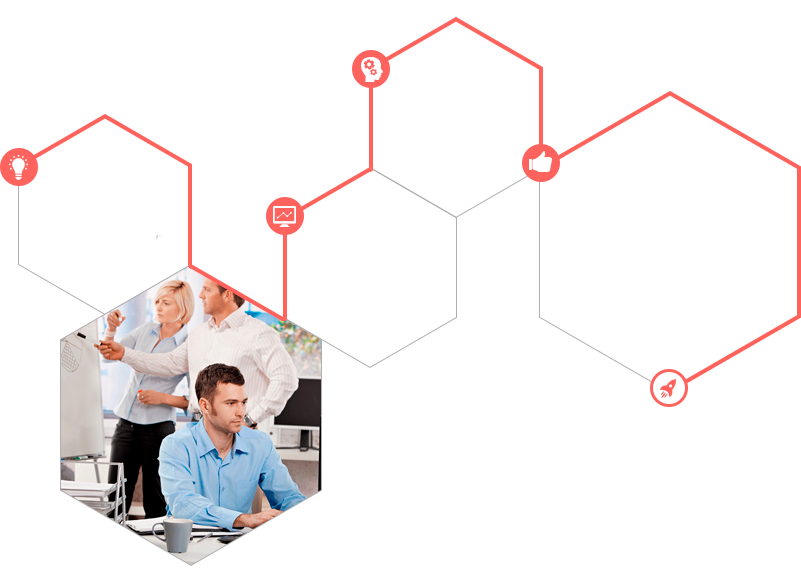
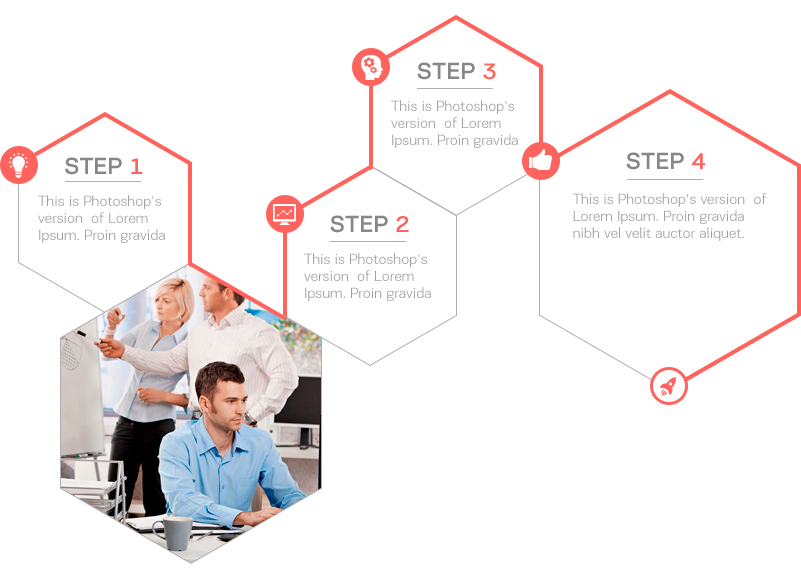
add svg

diff --git a/index.html b/index.html
@@ -27,6 +27,7 @@
 	<!-- style -->
 	<link rel="stylesheet" href="css/normalize.css">	
 	<link rel="stylesheet" href="css/main.css">
+	<link rel="stylesheet" href="css/icons.css">
 	<link rel="stylesheet" href="css/media.css">
 </head>
 <body>
@@ -64,7 +65,36 @@
 			<p class="section-describe">Daisy is sagittis sem nibh id elit. Duis sed odio sit amet nibh vulputate cursus a sit amet mauris. Morbi accumsan ipsum</p>
 			<div class="icons">
 				<div class="icons-cont">
-					<img src="img/icons/icon1.png" alt="icon1">
+					<!-- <img src="img/icons/icon1.png" alt="icon1"> -->
+					<!-- <svg id="icon1" data-name="icon1" xmlns="http://www.w3.org/2000/svg" width="100.188" height="116" viewBox="0 0 100.188 116">
+						<defs>
+						  <style>
+							.cls-1 {
+							  fill: #fe8682;
+							}
+					  
+							.cls-1, .cls-2, .cls-3 {
+							  fill-rule: evenodd;
+							}
+					  
+							.cls-2 {
+							  fill: #fc635e;
+							}
+					  
+							.cls-3 {
+							  fill: #fff;
+							}
+						  </style>
+						</defs>
+						<g id="Группа_3" data-name="Группа 3">
+						  <path id="Фигура_3" data-name="Фигура 3" class="cls-1" d="M212.149,1040l50.1-29,50.1,29v58l-50.1,29-50.1-29v-58Z" transform="translate(-212.156 -1011)"/>
+						  <path id="Фигура_3_копия" data-name="Фигура 3 копия" class="cls-2" d="M217.16,1043l45.093-26,45.093,26v52l-45.093,26-45.093-26v-52Z" transform="translate(-212.156 -1011)"/>
+						</g>
+						<path id="Forma_1" data-name="Forma 1" class="cls-3" d="M271.256,1069.77a30.025,30.025,0,0,0,4.973-7.96,29.363,29.363,0,0,0,1.037-2.97c0.11-.41.228-0.91,0.336-1.46,0.025-.12.042-0.23,0.065-0.35,0.026-.15.053-0.3,0.077-0.46a20.322,20.322,0,0,0,.257-4.22,13.466,13.466,0,0,1-.063-1.73,0.793,0.793,0,0,0,.085-0.1,0.609,0.609,0,0,0,.216-0.62s-0.026-.02-0.058-0.05a1.2,1.2,0,0,1,.053-0.52c0.062-.27-0.126-0.41-0.421-0.32a1.565,1.565,0,0,1-.6.11l-0.07-.05a0.65,0.65,0,0,0-.564.36,0.931,0.931,0,0,1-.059.08c-0.032.05-.805,0.13-1.712,0.31a20.578,20.578,0,0,0-6.779,2.72,27.043,27.043,0,0,0-8.48,8.44,3.067,3.067,0,0,1-2.5,1.29,11.835,11.835,0,0,0-11.735,7.52,1.041,1.041,0,0,0,1.121,1.49c16.319-.3,17.806,9.65,17.747,13.65-0.015.91,0.565,1.36,1.357,0.89,5.931-3.52,5.539-10.16,4.99-13.21A3.827,3.827,0,0,1,271.256,1069.77Zm-1.838-4.49a3.324,3.324,0,0,1-4.082.6,3.142,3.142,0,0,1-1.23-4.34,2.765,2.765,0,0,1,.378-0.51,3.337,3.337,0,0,1,4.083-.6,3.154,3.154,0,0,1,1.23,4.35A3.385,3.385,0,0,1,269.418,1065.28Zm-14.354,21.94c2.927-1.73,4.621-4.92,5.417-6.83,0.351-.84-0.13-1.25-0.91-0.77a14.6,14.6,0,0,0-5.467,6.75C253.753,1087.21,254.272,1087.69,255.064,1087.22Zm-5.826.63c4.469-2.42,6.873-7.52,7.845-10.09,0.322-.85-0.164-1.26-0.957-0.8-4.693,2.77-6.985,7.55-7.9,10.01C247.908,1087.82,248.43,1088.29,249.238,1087.85Zm-1.049-5.93c2.927-1.73,4.62-4.91,5.416-6.82,0.352-.84-0.13-1.25-0.91-0.77a14.615,14.615,0,0,0-5.467,6.75C246.877,1081.92,247.4,1082.39,248.189,1081.92Z" transform="translate(-212.156 -1011)"/>
+					</svg> -->
+					<svg class="icon">
+						<use xlink:href="#icon1"></use>
+					  </svg>
 					<h3>Clients</h3>
 					<p>Lorem ipsum dolor sit amet, consectetur adipisicing elit. Blanditiis excepturi obcaecati magnam deleniti aliquid mollitia!</p>
 				</div>
@@ -97,7 +127,28 @@
 	<section class="process">
 		<div class="cont">
 			<h2 class="section-title">Our <span> process</span></h2>
-			<p class="section-describe">Daisy is sagittis sem nibh id elit. Duis sed odio sit amet nibh vulputate cursus a sit amet mauris. Morbi accumsan ipsum</p>			
+			<p class="section-describe">Daisy is sagittis sem nibh id elit. Duis sed odio sit amet nibh vulputate cursus a sit amet mauris. Morbi accumsan ipsum</p>
+			<img src="./img/our_process.png" alt="process">	
+			<div class="steps">
+				<div class="hex1"></div>
+				<div class="hex2"></div>
+				<div class="hex3"></div>
+				<div class="hex4"></div>
+			</div>
+			<a href="#" class="arrowDown">&darr;</a>	
+		</div>
+	</section>
+	<section class="we_do">
+		<div class="cont">
+			<h2 class="section-title">what do <span> we do</span></h2>
+			<div class="section-block">
+				<div class="section-text">
+					<h3>Landing Pages</h3>
+					<p>This is Photoshop's version  of Lorem Ipsum. Proin gravida nibh vel velit auctor aliquet. Aenean sollicitudin, lorem quis bibendum auctor, nisi elit consequat ipsum, nec sagittis sem nibh id elit. Duis sed odio sit amet nibh vulputate cursus a sit amet mauris. Morbi accumsan ipsum velit. Nam</p>
+					<button></button>
+				</div>
+				<img src="/img/we_do_01.png" alt="PC">
+			</div>
 		</div>
 	</section>
 </body>

diff --git a/css/main.less b/css/main.less
@@ -53,18 +53,48 @@ body {
         }
     }
 
+    // .section-title {
+    //     display: inline-block;
+    //     font-size: 40px;
+    //     text-transform: uppercase;
+    //     color: #868686;
+    //     // text-decoration: solid 2px #ADADAD underline;
+    //     // text-underline-position: below 10px;
+    //     padding-bottom: 14px;
+    //     border-bottom: solid 2px #ADADAD;
+    //     span {
+    //       color: #fc635e;
+    //     }
+    // }
+
     .section-title {
         display: inline-block;
+        position: relative;
+        margin: 0 auto;
         font-size: 40px;
-        text-transform: uppercase;
         color: #868686;
-        // text-decoration: solid 2px #ADADAD underline;
-        // text-underline-position: below 10px;
-        padding-bottom: 14px;
-        border-bottom: solid 2px #ADADAD;
-        span {
-          color: #fc635e;
-        }
+        text-transform: uppercase;
+    }
+
+    .section-title span {
+        color: #fc635e;
+    }
+
+    .section-title:after {
+        display: block;
+        background-color: #ADADAD;
+        content: " ";
+        height: 3px;
+        width: 0%;
+        left: 50%;
+        position:absolute;
+        transition: width .3s ease-in-out;
+        transform:translateX(-50%);
+    }
+
+    .section-title:hover:after,
+    .section-title:focus:after {
+        width: 100%;
     }
 
     .section-describe {
@@ -77,7 +107,12 @@ body {
         max-width: 540px;
         margin: 0 auto;
         margin-bottom: 80px;
-    }    
+    }   
+    
+    .section-block {
+        display: flex;
+        justify-content: space-between;
+    }
 
     /*--header--*/
     header {
@@ -319,9 +354,42 @@ body {
             }
           
     }
+    /*--section our process--*/ 
     .process {
         text-align: center;
-
+        .steps {
+            display: none;
+        }
+        img {
+            width: 100%;
+            height: auto;   
+        }
     }
 
-}
+    /*--section we do--*/ 
+    .we_do {
+        text-align: center;
+        background-color: #f2f2f2;
+        .section-block {
+            .section-text  {
+                max-width: 400px;
+                text-align: left;
+                    h3 {
+                        font-size: 28px;
+                        color: rgb(134, 134, 134);
+                        text-transform: uppercase;
+                        line-height: 40px;    
+                    }
+                    p {
+                        font-size: 15px;
+                        color: rgb(158, 152, 152);
+                        line-height: 1.599;
+                    }
+                }
+                img {
+                    width: 100%;
+                    height: auto;
+                }      
+            }
+        }
+    }

diff --git a/css/main.css b/css/main.css
@@ -5,6 +5,8 @@ body {
   /*--header--*/
   /*--section receive--*/
   /*--section expand--*/
+  /*--section our process--*/
+  /*--section we do--*/
 }
 body div.cont {
   max-width: 960px;
@@ -54,14 +56,29 @@ body .section-promo span {
 }
 body .section-title {
   display: inline-block;
+  position: relative;
+  margin: 0 auto;
   font-size: 40px;
-  text-transform: uppercase;
   color: #868686;
-  padding-bottom: 14px;
-  border-bottom: solid 2px #ADADAD;
+  text-transform: uppercase;
 }
 body .section-title span {
   color: #fc635e;
+}
+body .section-title:after {
+  display: block;
+  background-color: #ADADAD;
+  content: " ";
+  height: 3px;
+  width: 0%;
+  left: 50%;
+  position: absolute;
+  transition: width 0.3s ease-in-out;
+  transform: translateX(-50%);
+}
+body .section-title:hover:after,
+body .section-title:focus:after {
+  width: 100%;
 }
 body .section-describe {
   font-size: 20px;
@@ -72,6 +89,10 @@ body .section-describe {
   max-width: 540px;
   margin: 0 auto;
   margin-bottom: 80px;
+}
+body .section-block {
+  display: flex;
+  justify-content: space-between;
 }
 body header {
   background: url('../img/background.png') no-repeat;
@@ -250,4 +271,34 @@ body .expand .arrowDown {
 }
 body .process {
   text-align: center;
+}
+body .process .steps {
+  display: none;
+}
+body .process img {
+  width: 100%;
+  height: auto;
+}
+body .we_do {
+  text-align: center;
+  background-color: #f2f2f2;
+}
+body .we_do .section-block .section-text {
+  max-width: 400px;
+  text-align: left;
+}
+body .we_do .section-block .section-text h3 {
+  font-size: 28px;
+  color: #868686;
+  text-transform: uppercase;
+  line-height: 40px;
+}
+body .we_do .section-block .section-text p {
+  font-size: 15px;
+  color: #9e9898;
+  line-height: 1.599;
+}
+body .we_do .section-block img {
+  width: 100%;
+  height: auto;
 }

diff --git a/css/icons.css b/css/icons.css
@@ -1,0 +1,61 @@
+#icon1,#icon2,#icon3,#icon4 {
+    .cls-1 {
+        fill: #fe8682;
+      }
+
+      .cls-1, .cls-2, .cls-3 {
+        fill-rule: evenodd;
+      }
+
+      .cls-2 {
+        fill: #fc635e;
+      }
+
+      .cls-3 {
+        fill: #fff;
+      }
+}
+
+//icon1
+#icon1:hover .cls-1 {
+    fill: #fc635e;
+}
+#icon1:hover .cls-2 {
+    fill: #fff;
+}
+#icon1:hover .cls-3 {
+    fill: #fe8682;
+}
+
+//icon2
+#icon2:hover .cls-1 {
+    fill: #fc635e;
+}
+#icon2:hover .cls-2 {
+    fill: #fff;
+}
+#icon2:hover .cls-3 {
+    fill: #fe8682;
+}
+
+//icon3
+#icon3:hover .cls-1 {
+    fill: #fc635e;
+}
+#icon3:hover .cls-2 {
+    fill: #fff;
+}
+#icon3:hover .cls-3 {
+    fill: #fe8682;
+}
+
+//icon4
+#icon4:hover .cls-1 {
+    fill: #fc635e;
+}
+#icon4:hover .cls-2 {
+    fill: #fff;
+}
+#icon4:hover .cls-3 {
+    fill: #fe8682;
+}
